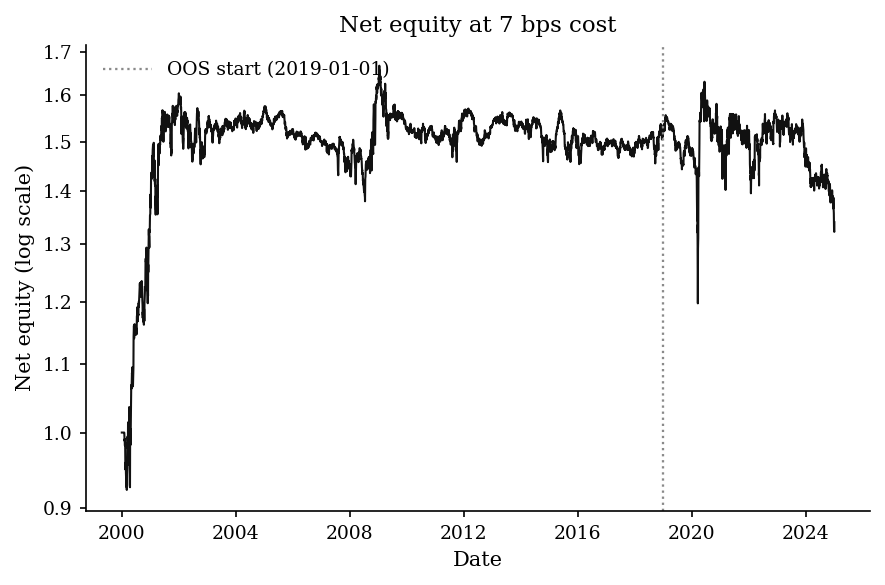
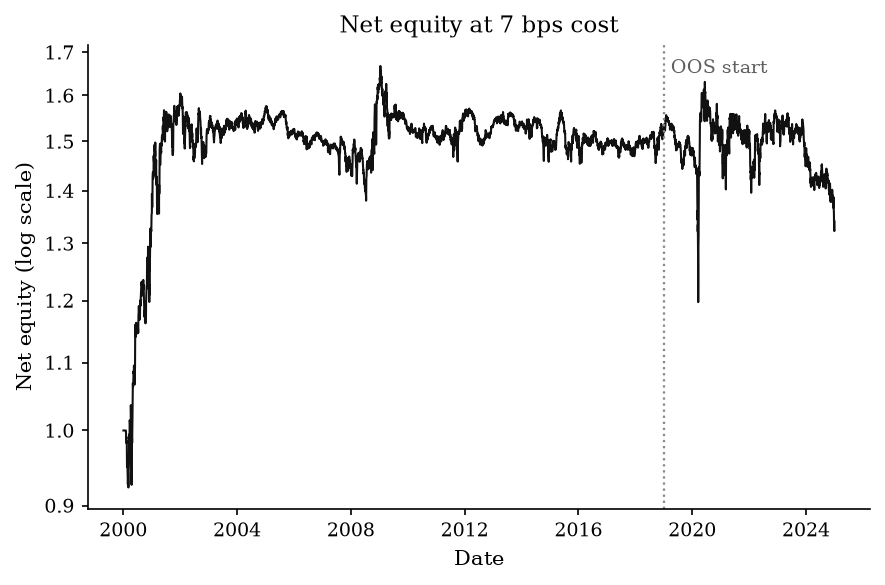
Fix OOS equity figure label

diff --git a/scripts/paper_figures.py b/scripts/paper_figures.py
@@ -200,7 +200,7 @@ def fig_oos_equity(returns, eligible, sector, cfg) -> None:
 
     fig, ax = plt.subplots(figsize=FIGSIZE)
     ax.plot(eq.index, eq.values, color=COLORS["primary"], lw=1.0)
-    ax.axvline(oos, color=COLORS["muted"], ls=":", lw=1.1, label=f"OOS start ({oos.date()})")
+    ax.axvline(oos, color=COLORS["muted"], ls=":", lw=1.1)
     ax.set_yscale("log")
     yticks = np.arange(0.9, 1.8, 0.1)
     ax.set_yticks(yticks)
@@ -209,7 +209,11 @@ def fig_oos_equity(returns, eligible, sector, cfg) -> None:
     ax.set_xlabel("Date")
     ax.set_ylabel("Net equity (log scale)")
     ax.set_title("Net equity at 7 bps cost")
-    ax.legend(loc="upper left")
+    ax.text(
+        oos + pd.DateOffset(months=3), 0.97, "OOS start",
+        transform=ax.get_xaxis_transform(),
+        color=COLORS["secondary"], fontsize=9, ha="left", va="top",
+    )
     _finish(fig, ax, "oos_equity.png")
 
 